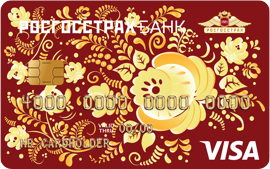
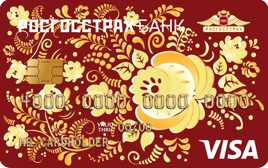
upd:банковские карты

diff --git a/static/cards/premium.php b/static/cards/premium.php
@@ -5,7 +5,7 @@
 				<div class="inner__banner-img-in" style="background-image: url('/static/theme/images/banners/card/Salary.jpg');"></div>
 			</div>
 			<div class="inner__banner-in grid__inner">
-				<div class="b-card _mc-platinum"></div>
+				<div class="b-card _mc-platinum-pp"></div>
 				<div class="inner__banner-block">
 					<div class="inner__banner-title">Премиальные карты</div>
 					<div class="breadcrumbs">

diff --git a/static/cards/payments.php b/static/cards/payments.php
@@ -5,7 +5,7 @@
 				<div class="inner__banner-img-in" style="background-image: url('/static/theme/images/banners/card/Payments.jpg');"></div>
 			</div>
 			<div class="inner__banner-in grid__inner">
-				<div class="b-card _mc-platinum"></div>
+				<div class="b-card _mc-platinum-pp"></div>
 				<div class="inner__banner-block">
 					<div class="inner__banner-title">Расчетные карты</div>
 					<div class="breadcrumbs">

diff --git a/static/cards/salary.php b/static/cards/salary.php
@@ -5,7 +5,7 @@
 				<div class="inner__banner-img-in" style="background-image: url('/static/theme/images/banners/card/Salary.jpg');"></div>
 			</div>
 			<div class="inner__banner-in grid__inner">
-				<div class="b-card _mc-platinum"></div>
+				<div class="b-card _mc-platinum-pp"></div>
 				<div class="inner__banner-block">
 					<div class="inner__banner-title">Зарплатная карта</div>
 					<div class="breadcrumbs">
